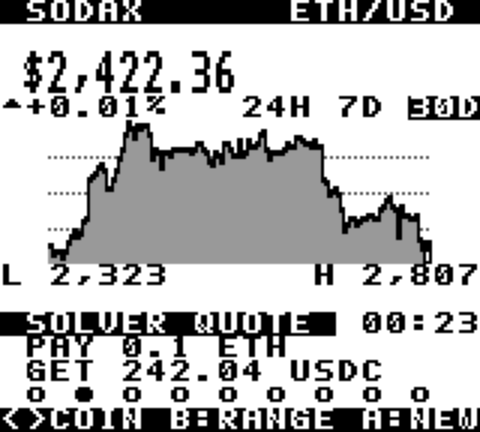
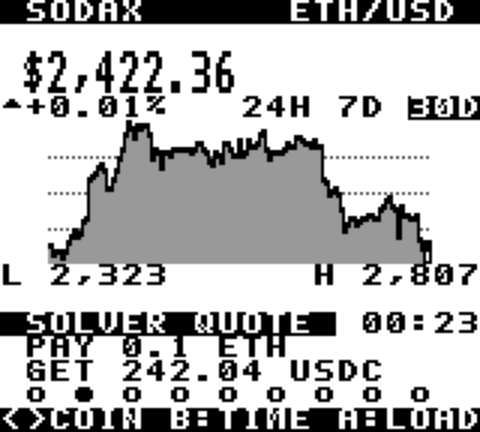
SODAX: works on hardware; A:LOAD label, debug counters behind -D DEBUG, verbose bridge stats
Claude-Session: https://claude.ai/code/session_01MZ3uQJCcn6FcjzVDhZnLJN

Changed region(s): [[0.4375, 0.9329, 1.0, 1.0]]

diff --git a/docs/LOGBOOK.md b/docs/LOGBOOK.md
@@ -168,3 +168,9 @@ Checked by Hazy with a multimeter, plug half we use, pins numbered looking into 
 - ROM `rom/sodax.gb` (ours): splash with the official SODAX lockup (icon-project/sodax-sdks docs/sodax-lockup-light.svg, MIT; brand rule: don't recreate the logo), bold 8x16 price, change + range tabs, 128x48 chart (shaded area, dotted grid, 2 px line, end marker), solver quote box, page dots, inverted bars. Updates copy a VRAM slice per VBlank (no blank flash). Font: generated 5x7, bold without closing 1 px gaps (fixed "W" looking like "V").
 - Emulator tests (PyBoy): splash; live BTC/SODA payloads injected into WRAM render correctly; a test build feeds a live ETH frame (with junk before it) through `ParseByte`: renders. **That test found a real bug**: the length check rejected frames >= 256 bytes (ours are 278); fixed. Also fixed: big price top half copied with source/destination swapped.
 - `tools/sodax-bridge.mjs` + `SODAX Bridge.command`; `--dry` prints all 9 live screens. Docs: docs/SODAX.md.
+
+## 2026-10-16 SODAX on real hardware: works
+- First tries: ROM stuck on the splash / "LOADING". Bridge stats showed ~1000 bytes/s arriving from the Game Boy and screens being sent. A5 test (bridge mode + printtest.gb): rows full of A5, so bridge mode and Pico-to-GB work.
+- Debug build with link counters on row 1, freshly copied to the EverDrive: screens render, buttons switch coin/range/refresh (Hazy: "all works"). Root cause of the earlier failure not confirmed; most likely the EverDrive had a ROM from before the length-check fix.
+- SODAX API: one HTTP 520 and some timeouts seen; bridge now retries with timeouts and reuses the last good data.
+- Footer "A:NEW" renamed "A:LOAD" (Hazy didn't know what NEW meant). Debug row only in -D DEBUG builds.

diff --git a/docs/SODAX.md b/docs/SODAX.md
@@ -19,7 +19,7 @@ Live crypto prices and real swap quotes from [SODAX](https://sodax.com) on an or
 |---|---|
 | Left / Right (or Up / Down) | previous / next coin |
 | B | range: 24H, 7D, 30D |
-| A or Start | refresh now |
+| A or Start | load fresh data now (the footer says A:LOAD) |
 
 The screen also refreshes every 30 s. Coins: BTC, ETH, SOL, SODA, SUI, HYPE, AVAX, XLM, POL.
 
